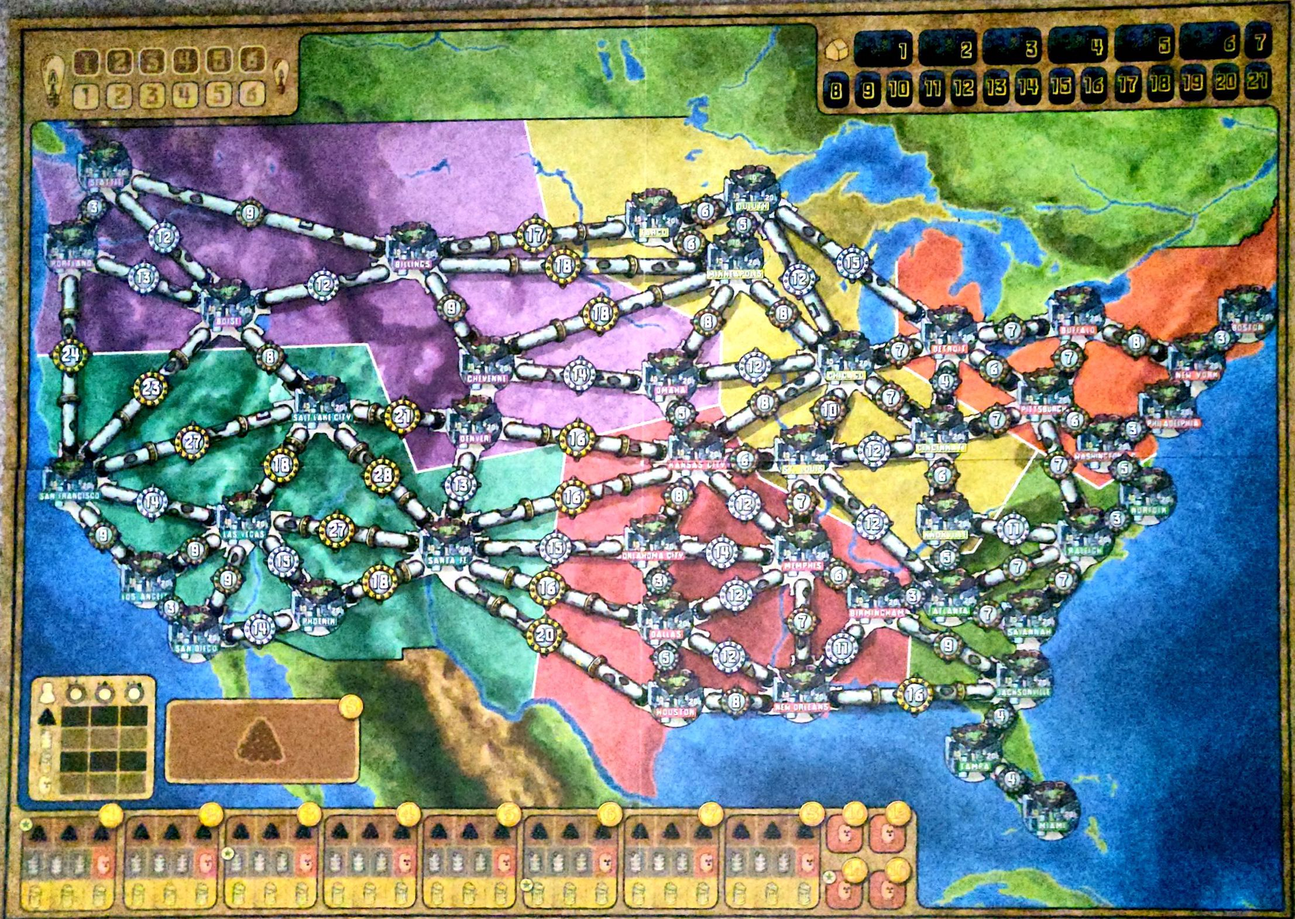
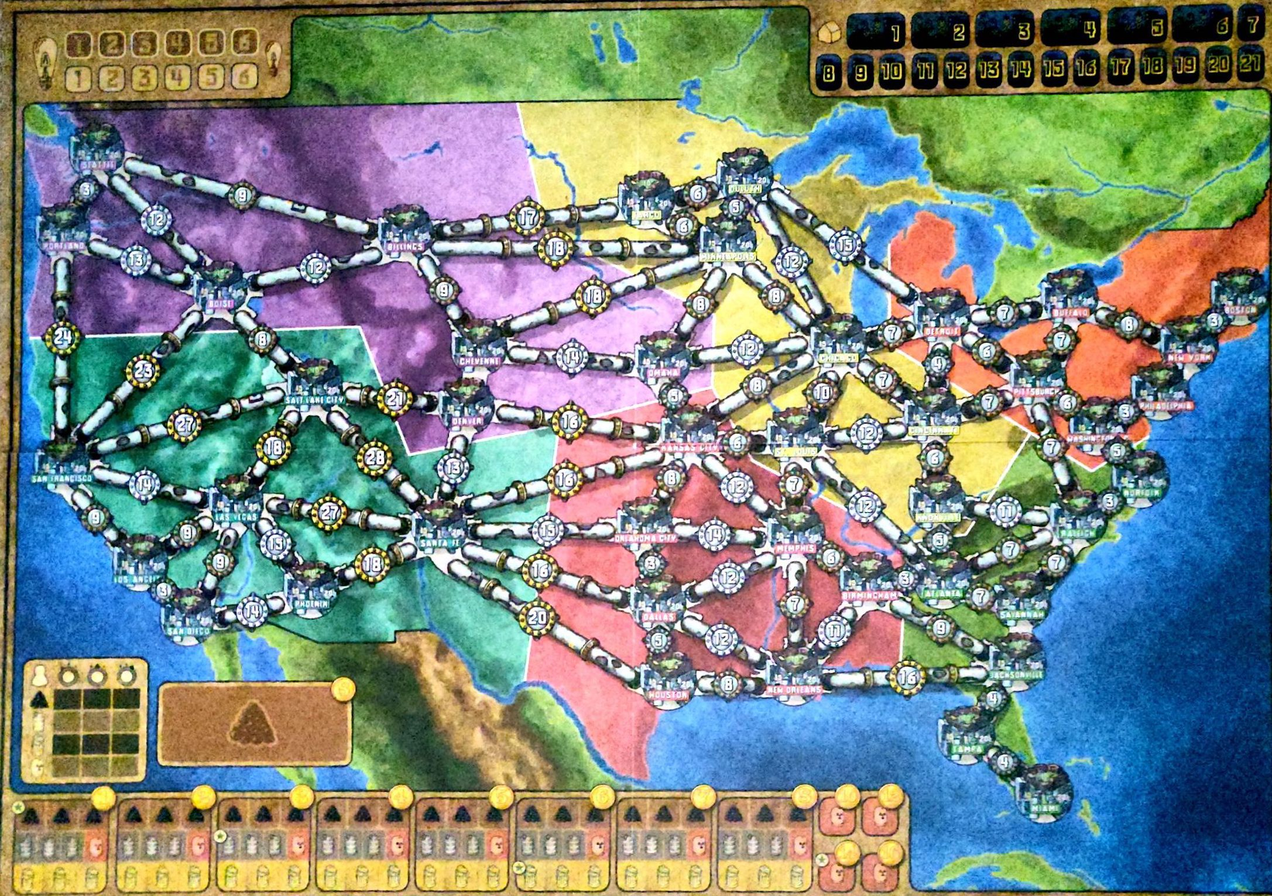
asdads

diff --git a/PowerGridPanel.java b/PowerGridPanel.java
@@ -107,12 +107,25 @@ public class PowerGridPanel extends JPanel implements MouseListener, KeyListener
 	public void drawMAPONLY(Graphics g) 
 	{
 		try {
-			BufferedImage mainMenuBackground = ImageIO.read(PowerGridPanel.class.getResource("UI/ALT.jpg"));
+			//BufferedImage mainMenuBackground = ImageIO.read(PowerGridPanel.class.getResource("UI/ALT2.jpg")); //pretty good
 			//ImageIO.read(new File("src/UI/BestSoFar.jpg"));
+			
+			BufferedImage TopLeft = ImageIO.read(PowerGridPanel.class.getResource("UI/TopLeft.jpg"));
+			BufferedImage TopRight = ImageIO.read(PowerGridPanel.class.getResource("UI/TopRight.jpg"));
+			BufferedImage BottomLeft = ImageIO.read(PowerGridPanel.class.getResource("UI/BottomLeft.jpg"));
+			BufferedImage BottomRight = ImageIO.read(PowerGridPanel.class.getResource("UI/BottomRight.jpg"));
+			
+			
 			g.setColor(GREEN); // We could do the player's color here ~ 
 			g.fillRect(0, 0, width, height);
-			g.drawImage(mainMenuBackground, 0, 0, 1468, 1033, null);
-			//1535, 1080
+			//g.drawImage(mainMenuBackground, 0, 0, 1468, 1033, null);
+			//1535, 1080 former width, height
+			
+			g.drawImage(TopLeft, 0, 0, 738, 516, null);
+			g.drawImage(TopRight, 738, 0, 738, 516, null);
+			g.drawImage(BottomLeft, 0, 516, 738, 516, null);
+			g.drawImage(BottomRight, 738, 516, 738, 516, null);
+			
 			} catch (IOException e) {
 				System.out.println("Cannot find Map image!");
 			}
@@ -217,9 +230,9 @@ public class PowerGridPanel extends JPanel implements MouseListener, KeyListener
 		g.setColor(GREEN); 
 		g.fillRect(0, 0, 150, 520);
 		g.setColor(TRANSPARENTBLACK);
-		g.drawString("Other Views", 48, 43);
+		g.drawString("Other Views", 43, 43);
 		g.setColor(Color.WHITE);
-		g.drawString("Other Views", 45, 40);
+		g.drawString("Other Views", 40, 40);
 		
 		int colorX = 30, colorY = 50;
 		for(int i = 0; i<4; i++)
